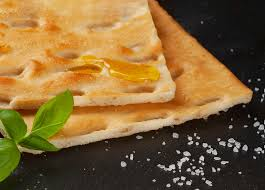
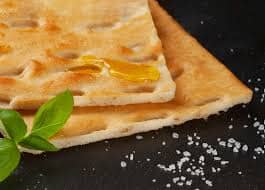
benerin

diff --git a/history.js b/history.js
@@ -16,6 +16,10 @@
       .then(data => {
         const selectedFood = data.find(item => item.id == foodId);
         if (selectedFood) {
+          if(foodId == 4){
+            console.log(selectedFood)
+          }
+        else if(foodId !== 4){
           foodDetailContainer.innerHTML = `   
             <h1>${selectedFood.nama}</h1>
               <p class="food-type">${selectedFood.tipe}</p>
@@ -31,6 +35,7 @@
               </div>
             </div>
           `;
+        }
         } else {
           foodDetailContainer.innerHTML = "<p>Food item not found.</p>";
         }

diff --git a/home.css b/home.css
@@ -18,7 +18,7 @@ body, html {
     font-family: 'Open Sans Condensed', sans-serif;
     font-size: 14px;
     font-weight: lighter;
-    box-sizing: border-box;
+    
     height: 85.1px;
 }
 
@@ -253,13 +253,13 @@ body {
   color: #fff;
   padding: 100px 0;
   position:relative;
-  animation: mymove 1.1s; /* dari w3schools */
+  animation: example 1.1s; /* dari w3schools */
    animation-name: example; /* dari w3schools*/
     animation-duration: 1s;
 }
 
 @keyframes example { /* from w3schools */
-    0%   {bottom:500px;}
+    0%   {bottom:300px;}
     100% {bottom:0px;}
 }
 

diff --git a/card.css b/card.css
@@ -13,6 +13,7 @@
     height: 100%;
     object-fit: cover;
     transition: all 0.4s ease;
+    border-radius: 10px;
 }
 
 /* Kotak hover fixed*/
@@ -33,7 +34,6 @@
     transition: opacity 0.4s ease;
     box-shadow: 0 0 30px rgba(0,0,0,0.7);
     padding: 20px;
-    box-sizing: border-box;
     text-align: center;
 }
 
@@ -111,7 +111,6 @@
     transition: opacity 0.4s ease;
     box-shadow: 0 0 30px rgba(0,0,0,0.7);
     padding: 20px;
-    box-sizing: border-box;
     text-align: center;
 }
 

diff --git a/history-light.css b/history-light.css
@@ -118,7 +118,6 @@ body{
 }
 
 .back-button:hover {
-  transform: translateY(-2px);
   background: linear-gradient(to right, #f27121, #e94057);
   box-shadow: 0 6px 12px rgba(0, 0, 0, 0.25);
 }
@@ -140,7 +139,6 @@ body{
     font-family: 'Open Sans Condensed', sans-serif;
     font-size: 14px;
     font-weight: lighter;
-    box-sizing: border-box;
     height: 85.1px;
     box-shadow: 0 2px 10px rgba(0,0,0,0.1);
 }

diff --git a/detail.js b/detail.js
@@ -33,7 +33,9 @@ document.addEventListener("DOMContentLoaded", () => {
         card.addEventListener("click", () => {
           localStorage.setItem("selectedFoodId", data[i].id); // Simpan ID
           localStorage.setItem("selectedCategory", currentPage);
+          if(i!==4){
           window.location.href = "history.html"; // Redirect
+          }
         });
         gallery.appendChild(card);
       };

diff --git a/recommendation.css b/recommendation.css
@@ -4,13 +4,13 @@ body {
     background-color: #0f1616!important;
     color: #c9a66b;
   position:relative;
-  animation: mymove 1.1s; /* dari w3schools */
+  animation: example 1.1s; /* dari w3schools */
    animation-name: example; /* dari w3schools*/
     animation-duration: 1s;
 }
 
 @keyframes example { /* from w3schools */
-    0%   {bottom:100px;}
+    0%   {bottom:300px;}
     100% {bottom:0px;}
 }
 

diff --git a/contactus-light.css b/contactus-light.css
@@ -4,13 +4,13 @@ body {
       font-family: Arial, sans-serif;
       margin: 0;
   position:relative;
-  animation: mymove 1.1s; /* dari w3schools */
+  animation: example 1.1s; /* dari w3schools */
    animation-name: example; /* dari w3schools*/
     animation-duration: 1s;
 }
 
 @keyframes example { /* from w3schools */
-    0%   {bottom:100px;}
+    0%   {bottom:300px;}
     100% {bottom:0px;}
 }
 

diff --git a/index.html b/index.html
@@ -90,7 +90,7 @@
         <img src="./tubesimg/nightitaly.jpg" alt="">
       </div>
       
-      <div class="intro-divider"></div>
+      <a href="sejarah.html"><div class="intro-divider"></div></a>
 
       <div class="intro-photo right">
         <img src="./tubesimg/colloseum.jpg" alt="">

diff --git a/history.html b/history.html
@@ -10,6 +10,7 @@
   <link rel="stylesheet" href="footer.css"/>
   <link rel="icon" type="image/x-icon" href="./tubesimg/logo.png">
   <link rel="stylesheet" href="history.css">
+  <link rel="stylesheet" href="template.css">
 </head>
 <body>
   <nav class="navbar">

diff --git a/home-light.css b/home-light.css
@@ -27,7 +27,6 @@ body {
     font-family: 'Open Sans Condensed', sans-serif;
     font-size: 14px;
     font-weight: lighter;
-    box-sizing: border-box;
     height: 85.1px;
     box-shadow: 0 2px 10px rgba(0,0,0,0.1);
 }

diff --git a/guide-light.css b/guide-light.css
@@ -24,7 +24,7 @@ body {
     display: flex;
     align-items: center;
     height: 85.1px;
-    box-sizing: border-box;
+    
 }
 
 .navbar .logo {

diff --git a/guide.css b/guide.css
@@ -24,7 +24,6 @@ body {
     display: flex;
     align-items: center;
     height: 85.1px;
-    box-sizing: border-box;
 }
 
 .navbar .logo {
